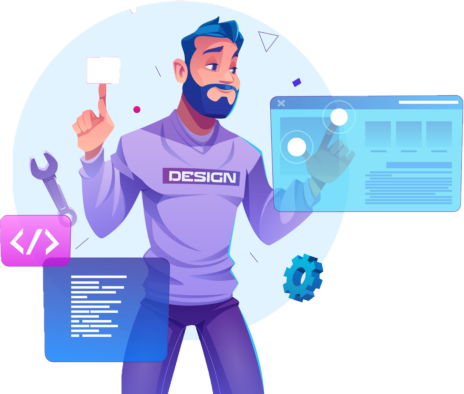
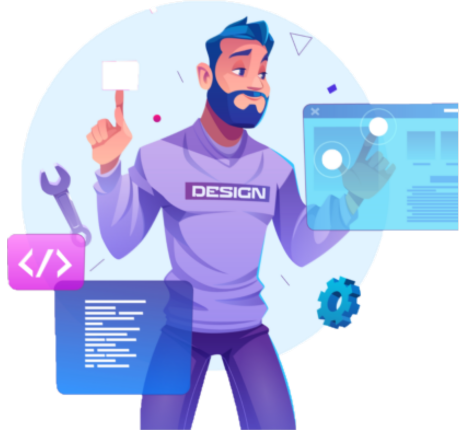
fixing img - 2

diff --git a/src/components/Home.jsx b/src/components/Home.jsx
@@ -10,7 +10,7 @@ function Home() {
       <div className="max-w-xs lg:max-w-sm mx-auto z-10">
         <img
           className="vector w-full h-full  "
-          src="/images/untitled.png"
+          src="/images/vector2.png"
           alt=""
         />
       </div>
